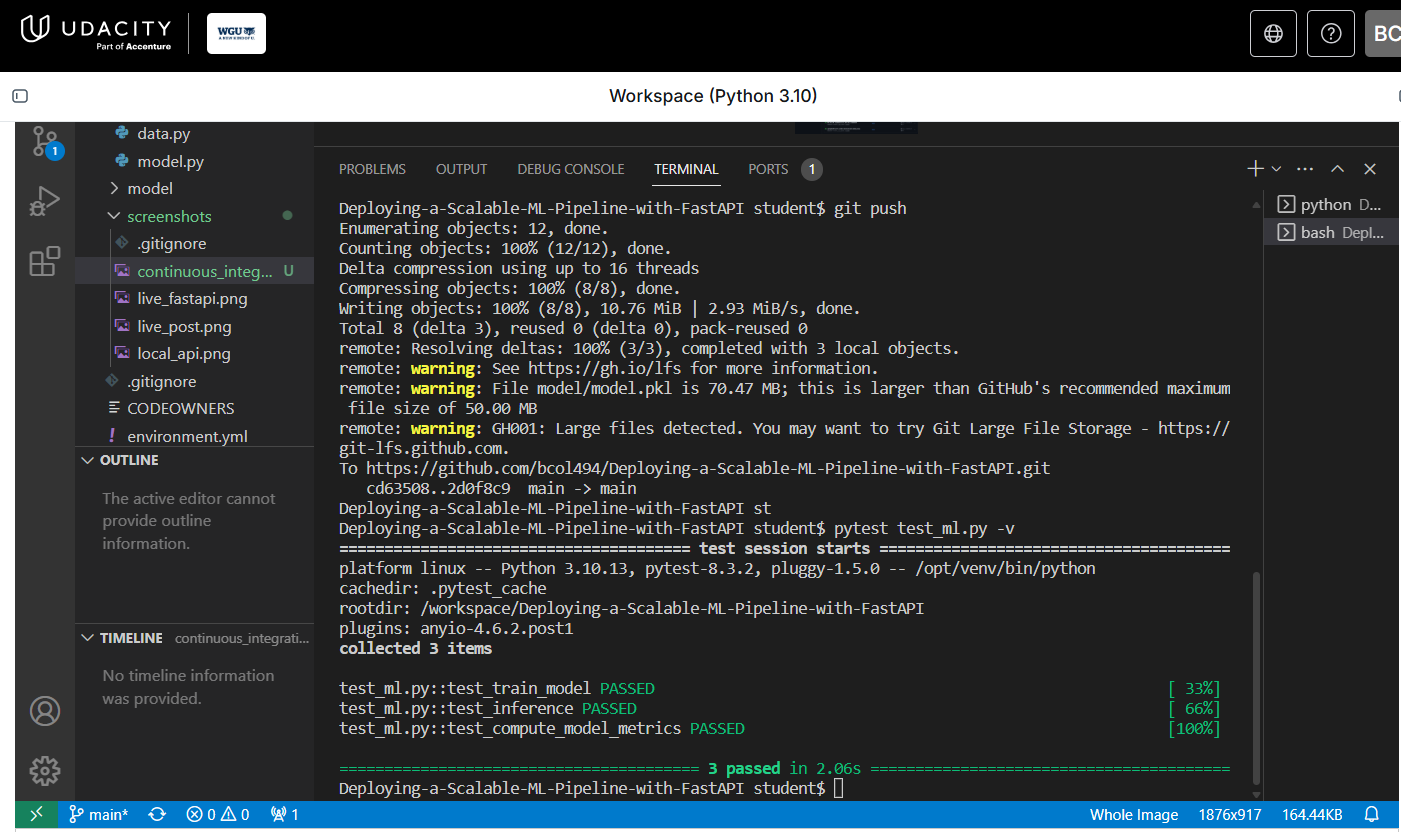
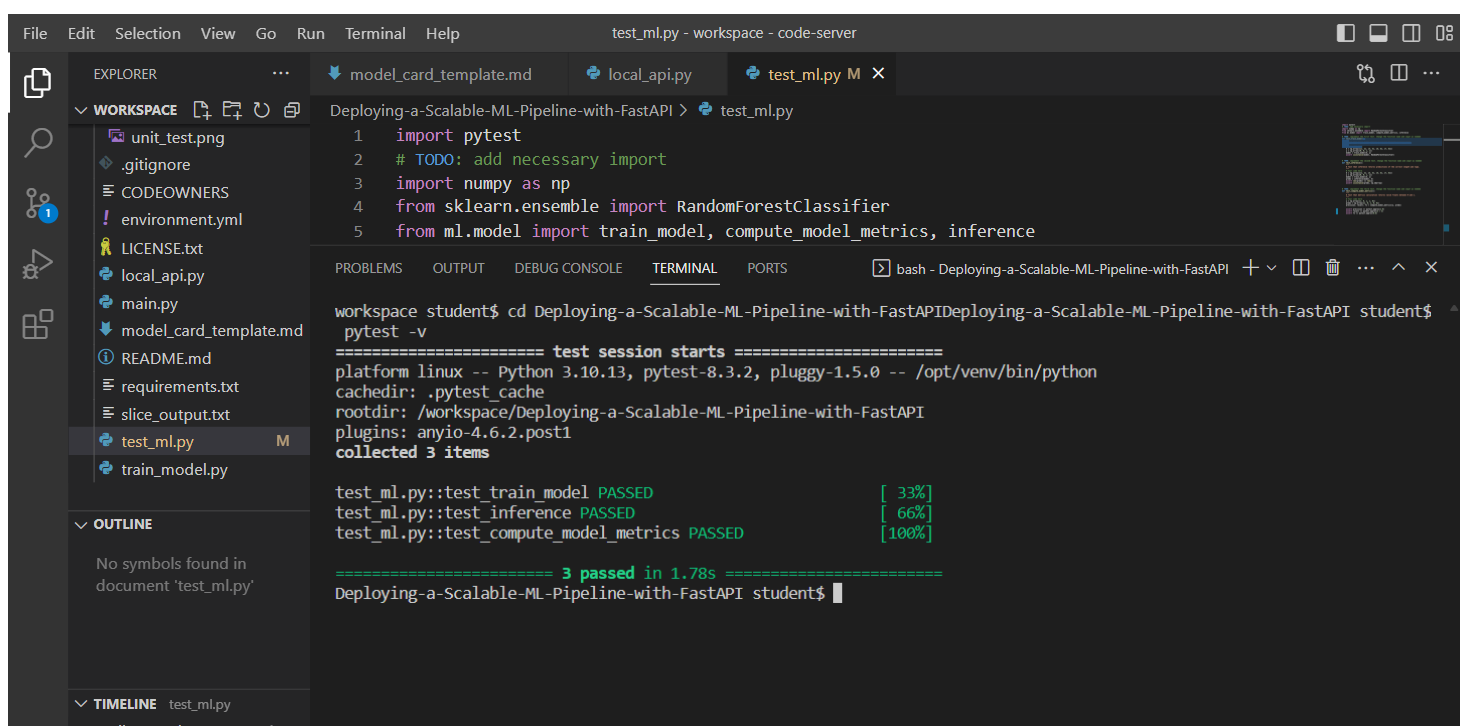
Strengthen metric unit test assertions

diff --git a/test_ml.py b/test_ml.py
@@ -40,9 +40,6 @@ def test_compute_model_metrics():
     preds = np.array([1, 0, 1, 0, 0])
     precision, recall, f1 = compute_model_metrics(y, preds)
 
-    assert isinstance(precision, float)
-    assert isinstance(recall, float)
-    assert isinstance(f1, float)
-    assert 0 <= precision <= 1
-    assert 0 <= recall <= 1
-    assert 0 <= f1 <= 1
+    assert precision == pytest.approx(1.0)
+    assert recall == pytest.approx(2 / 3)
+    assert f1 == pytest.approx(0.8)
